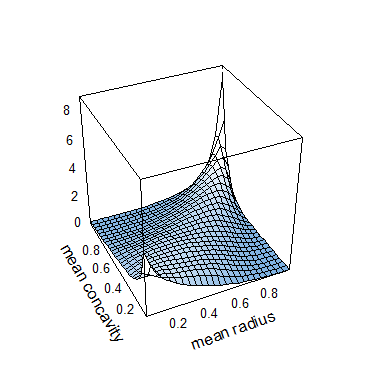
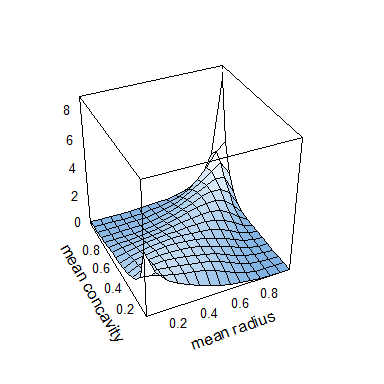
surface plots: reduce default grid size

Changed region(s): [[0.25, 0.2812, 0.75, 0.75]]

diff --git a/README.md b/README.md
@@ -121,7 +121,6 @@ You can also pass further arguments to the `...` argument to refine the aestheti
 
 ``` r
 plot(kde.fit, 
-     size = 15,  # reduce grid size
      zlim = c(0, 10),  # z-axis limits
      screen = list(x = -75, z = 45),  # rotate screen
      xlab = list(rot = 25),  # labels can be rotated as well
